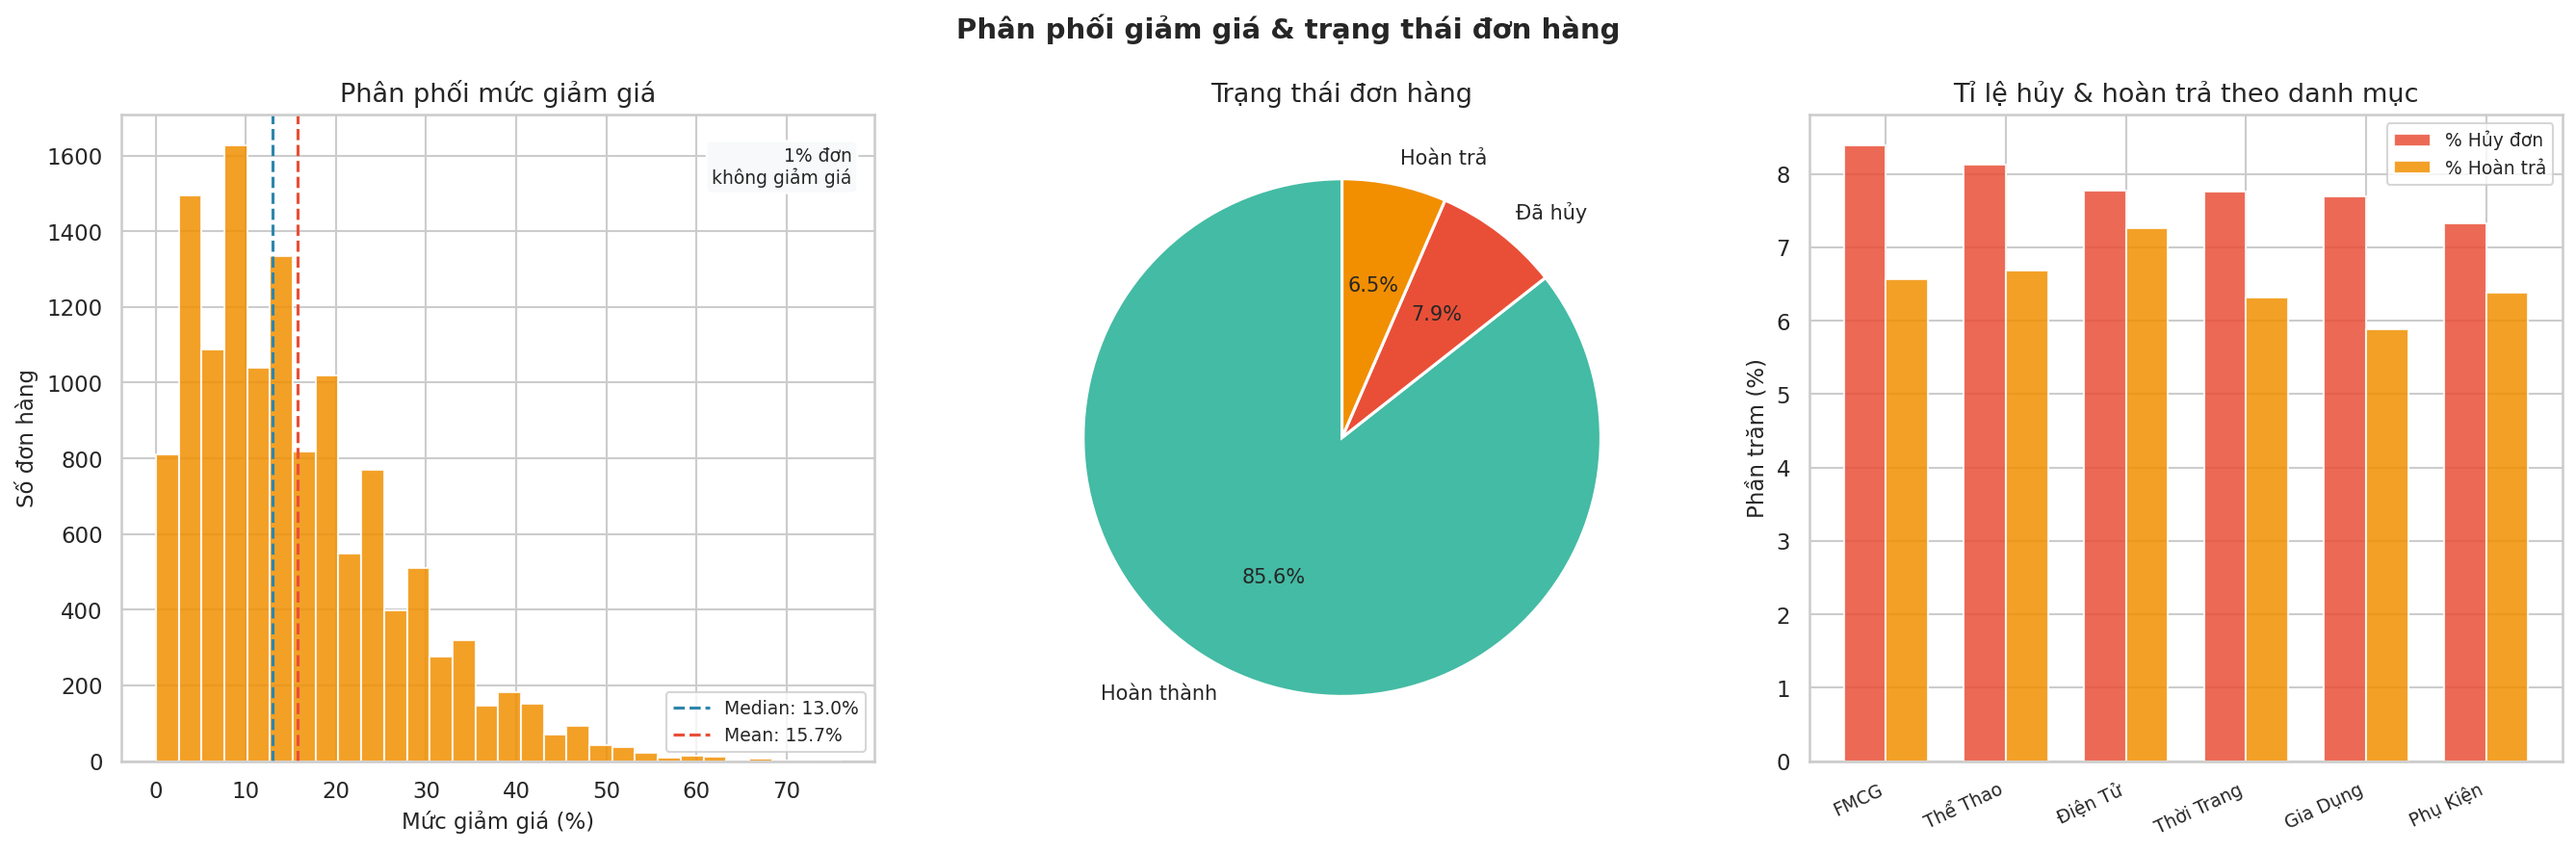
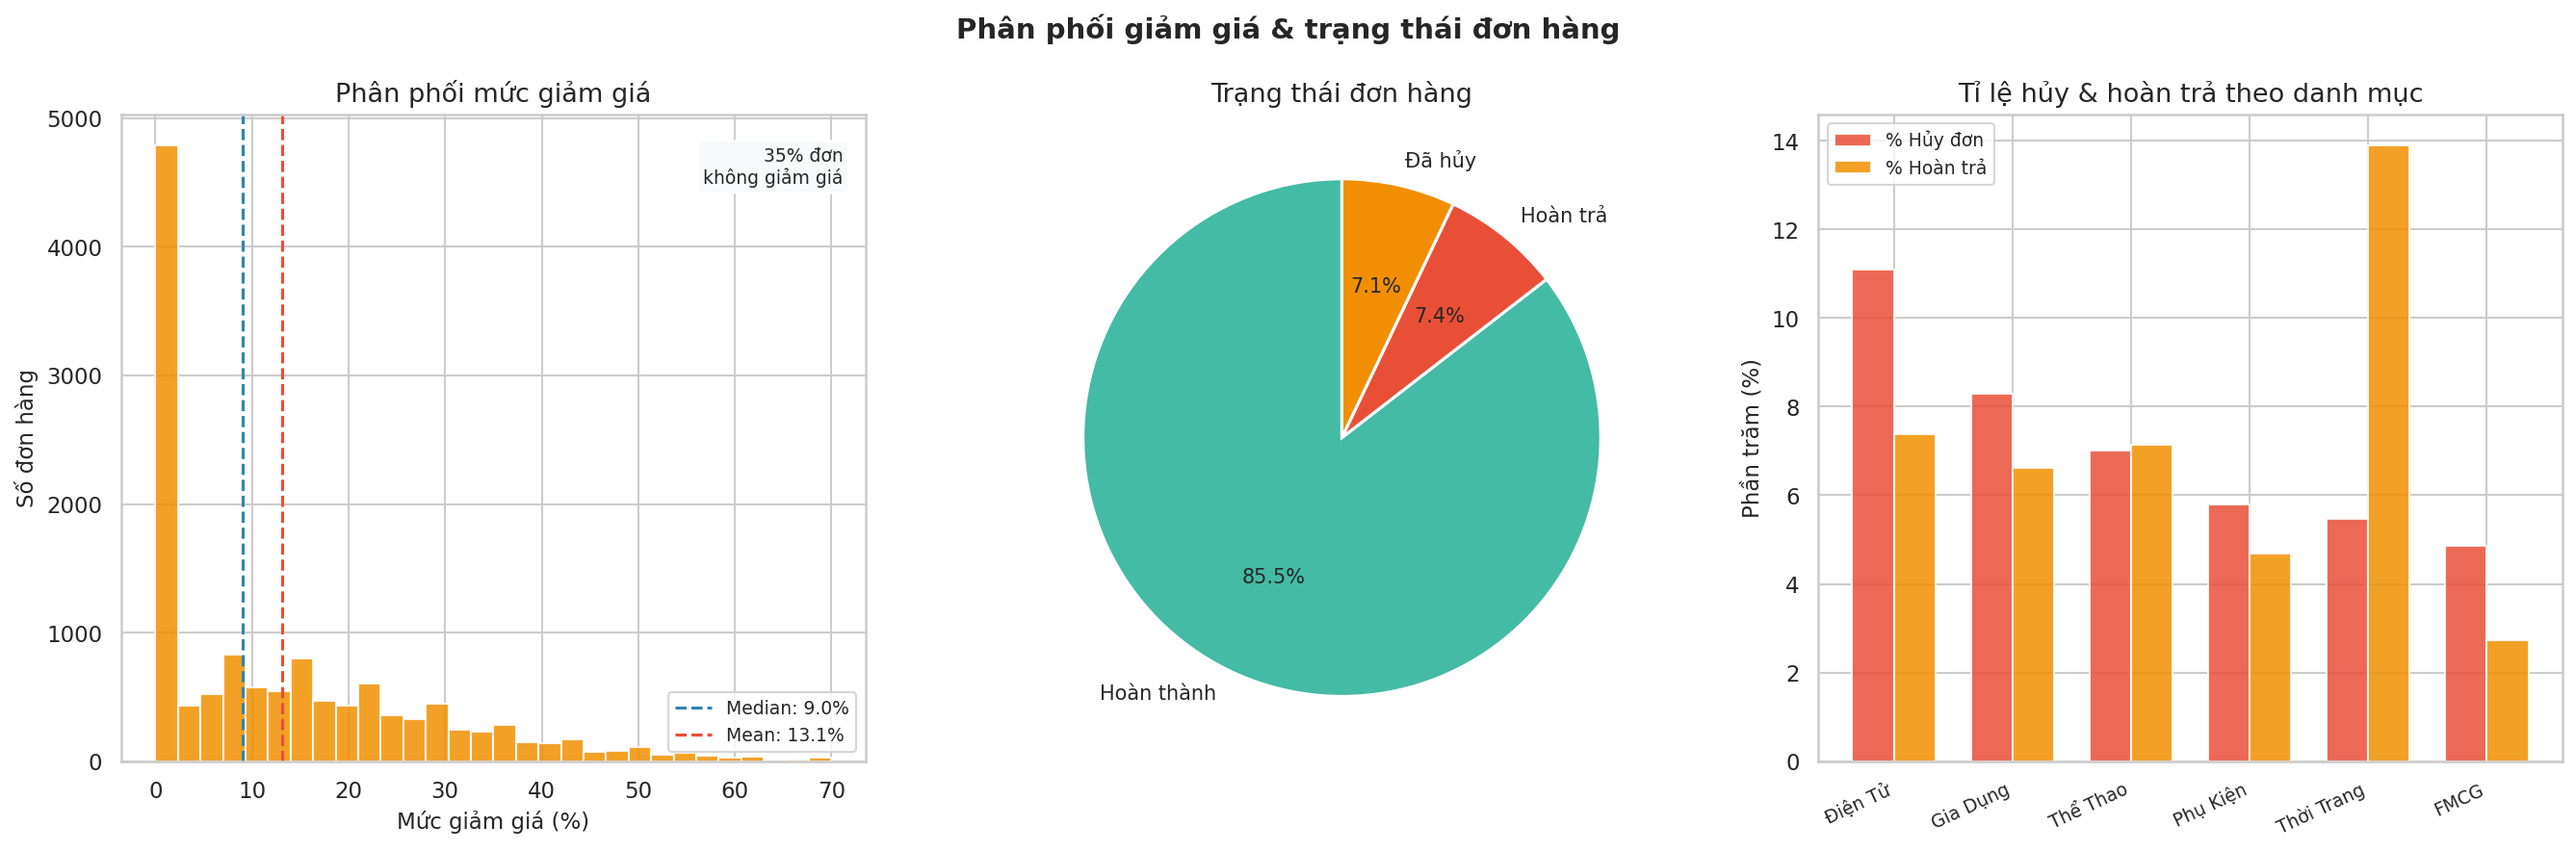
fix: realistic discount (35% no discount) + category-specific cancel/return rates
Thời Trang: 14% return (sizing), Điện Tử: 11% cancel (price comparison),
FMCG: 3% return (consumable). Previously all categories had same rates.

diff --git a/scripts/shared/data_generators.py b/scripts/shared/data_generators.py
@@ -114,7 +114,11 @@ def generate_mar2024_orders(n: int = 12_847) -> pd.DataFrame:
     # inject 1 test entry with price=1000
     prices[3] = 1_000.0
 
-    discounts = RNG.beta(1.5, 8, n).round(2)  # skewed low, mostly <20%
+    # discounts: ~35% no discount, rest skewed low (mostly 5-20%)
+    discounts = np.zeros(n)
+    has_discount = RNG.random(n) > 0.35  # 65% get some discount
+    discounts[has_discount] = RNG.beta(1.5, 6, has_discount.sum()).round(2)
+    discounts = np.clip(discounts, 0, 0.70)
 
     revenue = qty * prices * (1 - discounts)
 
@@ -126,7 +130,19 @@ def generate_mar2024_orders(n: int = 12_847) -> pd.DataFrame:
              for d, s in zip(days_offset, seconds_offset)]
 
     cities = RNG.choice(CITIES, size=n, p=CITY_WEIGHTS)
-    statuses = RNG.choice(STATUSES, size=n, p=STATUS_WEIGHTS)
+
+    # status varies by category (overall ~85/8/7 but different per category)
+    CAT_STATUS_WEIGHTS = {
+        "Điện Tử":    [0.82, 0.11, 0.07],  # high cancel (price comparison)
+        "Thời Trang": [0.80, 0.06, 0.14],  # high return (sizing issues)
+        "FMCG":       [0.92, 0.05, 0.03],  # low cancel/return (cheap, consumable)
+        "Gia Dụng":   [0.85, 0.08, 0.07],  # moderate
+        "Thể Thao":   [0.86, 0.07, 0.07],  # moderate
+        "Phụ Kiện":   [0.88, 0.06, 0.06],  # low
+    }
+    statuses = np.array([
+        RNG.choice(STATUSES, p=CAT_STATUS_WEIGHTS[c]) for c in cats
+    ])
 
     # ratings: ~60% missing; unhappy customers rate more → left-skew for raters
     ratings = []

diff --git a/chapters/01-ngay-dau-tien/README.md b/chapters/01-ngay-dau-tien/README.md
@@ -165,9 +165,9 @@ Andie nhìn tiếp 2 cột chưa khai thác: discount và status.
 
 ![Biểu đồ 2d: Phân phối giảm giá và tỉ lệ hủy/hoàn trả theo danh mục.](./images/chart-02d-discount-status.png)
 
-*Hình 2d: Đa số đơn giảm giá dưới 15%. Tỉ lệ hoàn thành 85%, hủy ~8%, hoàn trả ~7%. Tỉ lệ hủy/hoàn trả khá đều giữa các danh mục.*
+*Hình 2d: 35% đơn không giảm giá, số còn lại giảm trung bình ~9%. Tỉ lệ hủy/hoàn trả khác nhau rõ rệt giữa các danh mục.*
 
-> 💡 **Insight:** Tổng đơn hủy + hoàn trả = ~14.7% — tức cứ 7 đơn thì có 1 đơn không thành công. Đây là con số mà Andie suýt tính nhầm vào doanh thu ở đầu chapter. Nếu tỉ lệ này tăng theo tháng, đó sẽ là tín hiệu cảnh báo quan trọng cần theo dõi trong Timeline (Lens #4).
+> 💡 **Insight:** Thời Trang hoàn trả **14%** (cao nhất) — khách mua online không thử được, mặc không vừa thì trả. Điện Tử hủy đơn **11%** (cao nhất) — khách so giá giữa nhiều sàn rồi đổi ý. FMCG chỉ **3% hoàn trả** — ai mua dầu gội rồi lại đi trả? Mỗi danh mục cần chiến lược giảm hủy/trả khác nhau: Thời Trang cần bảng size chính xác, Điện Tử cần chính sách giá cạnh tranh.
 
 ---
 
